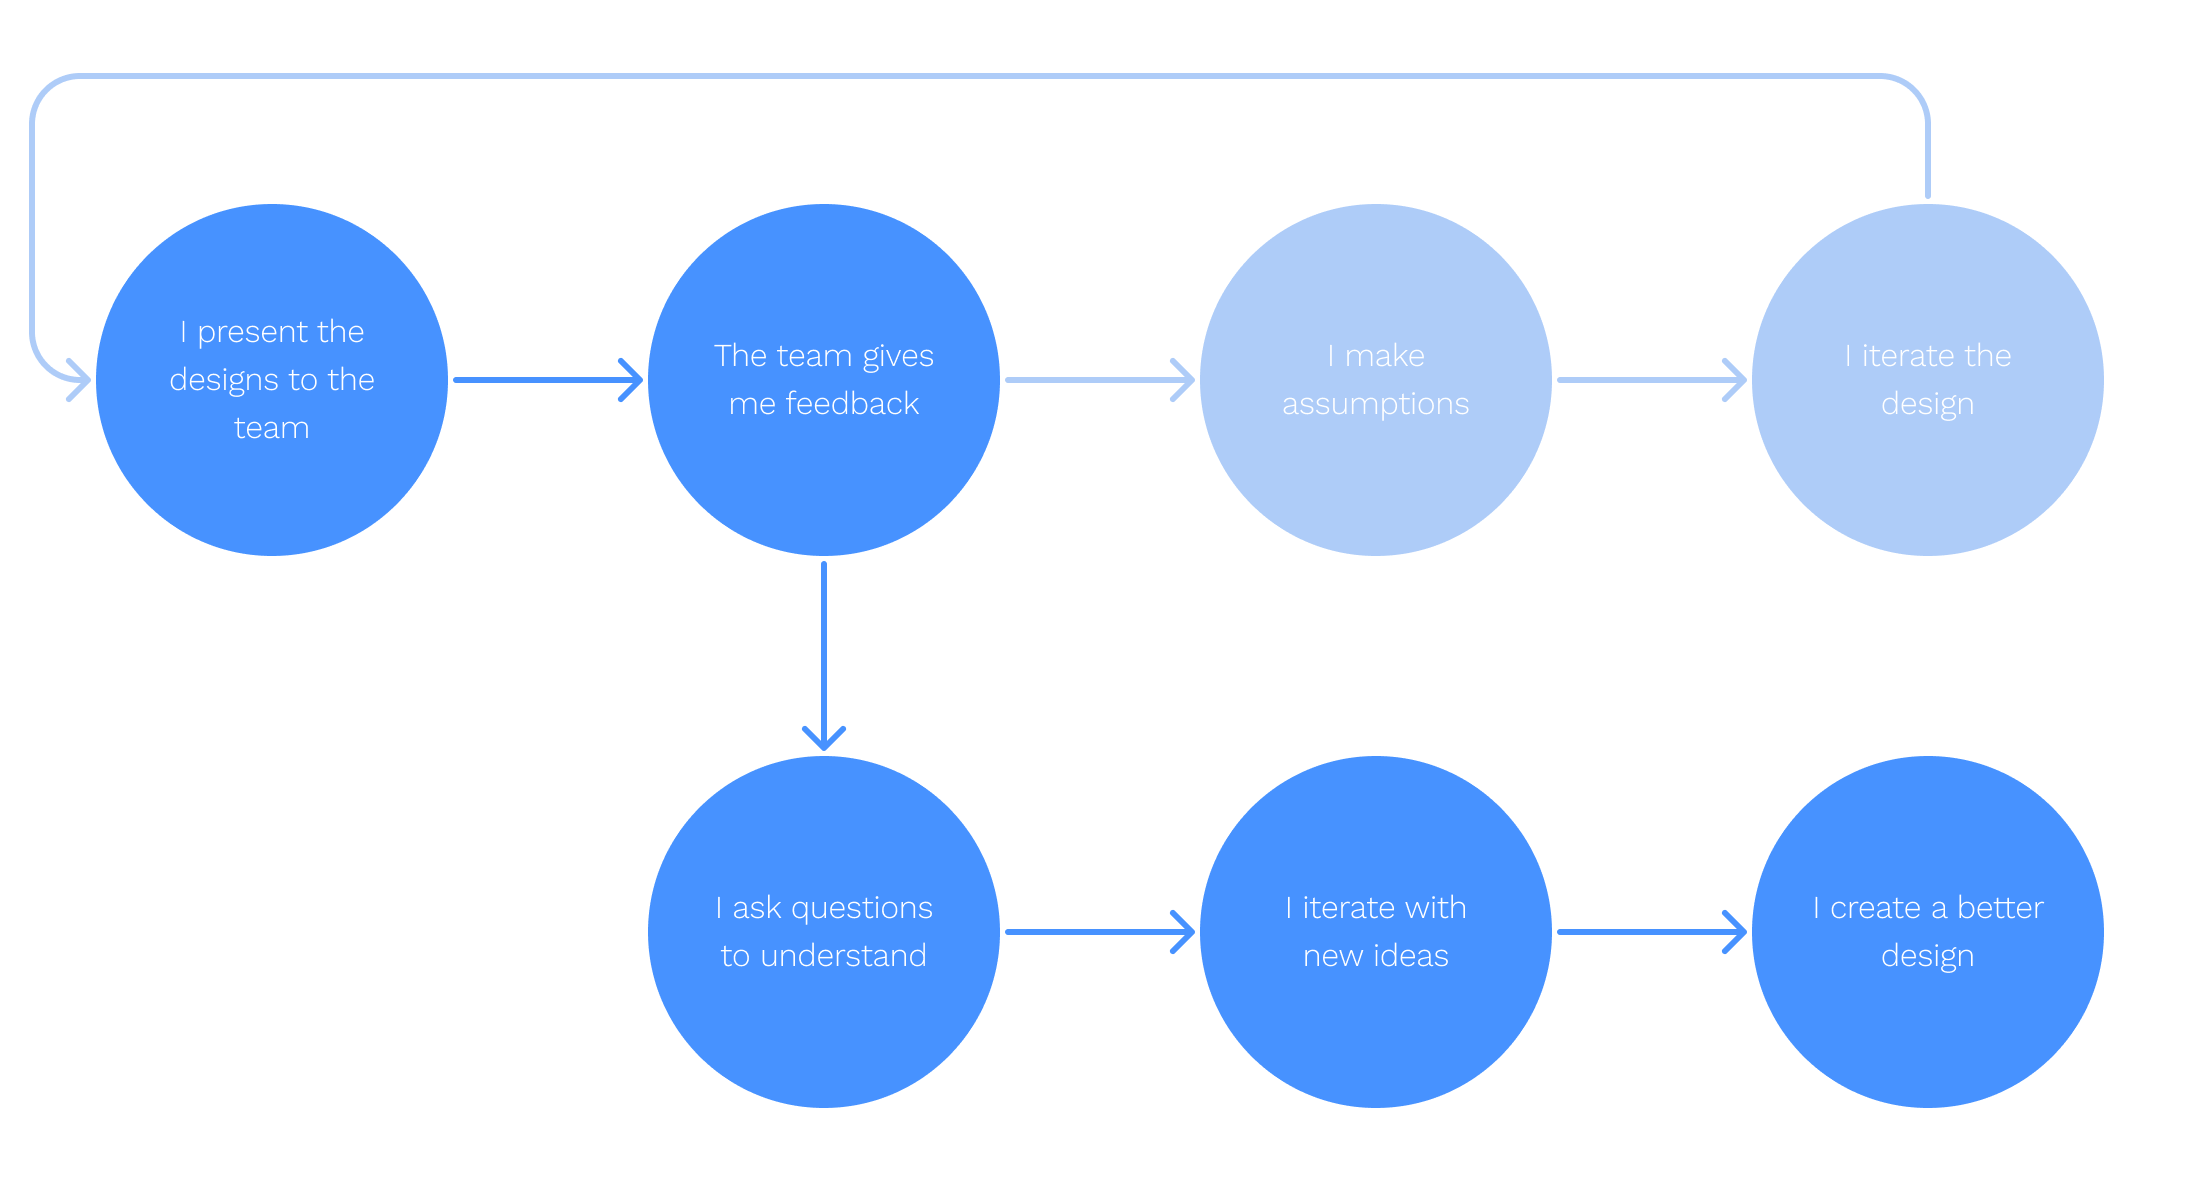
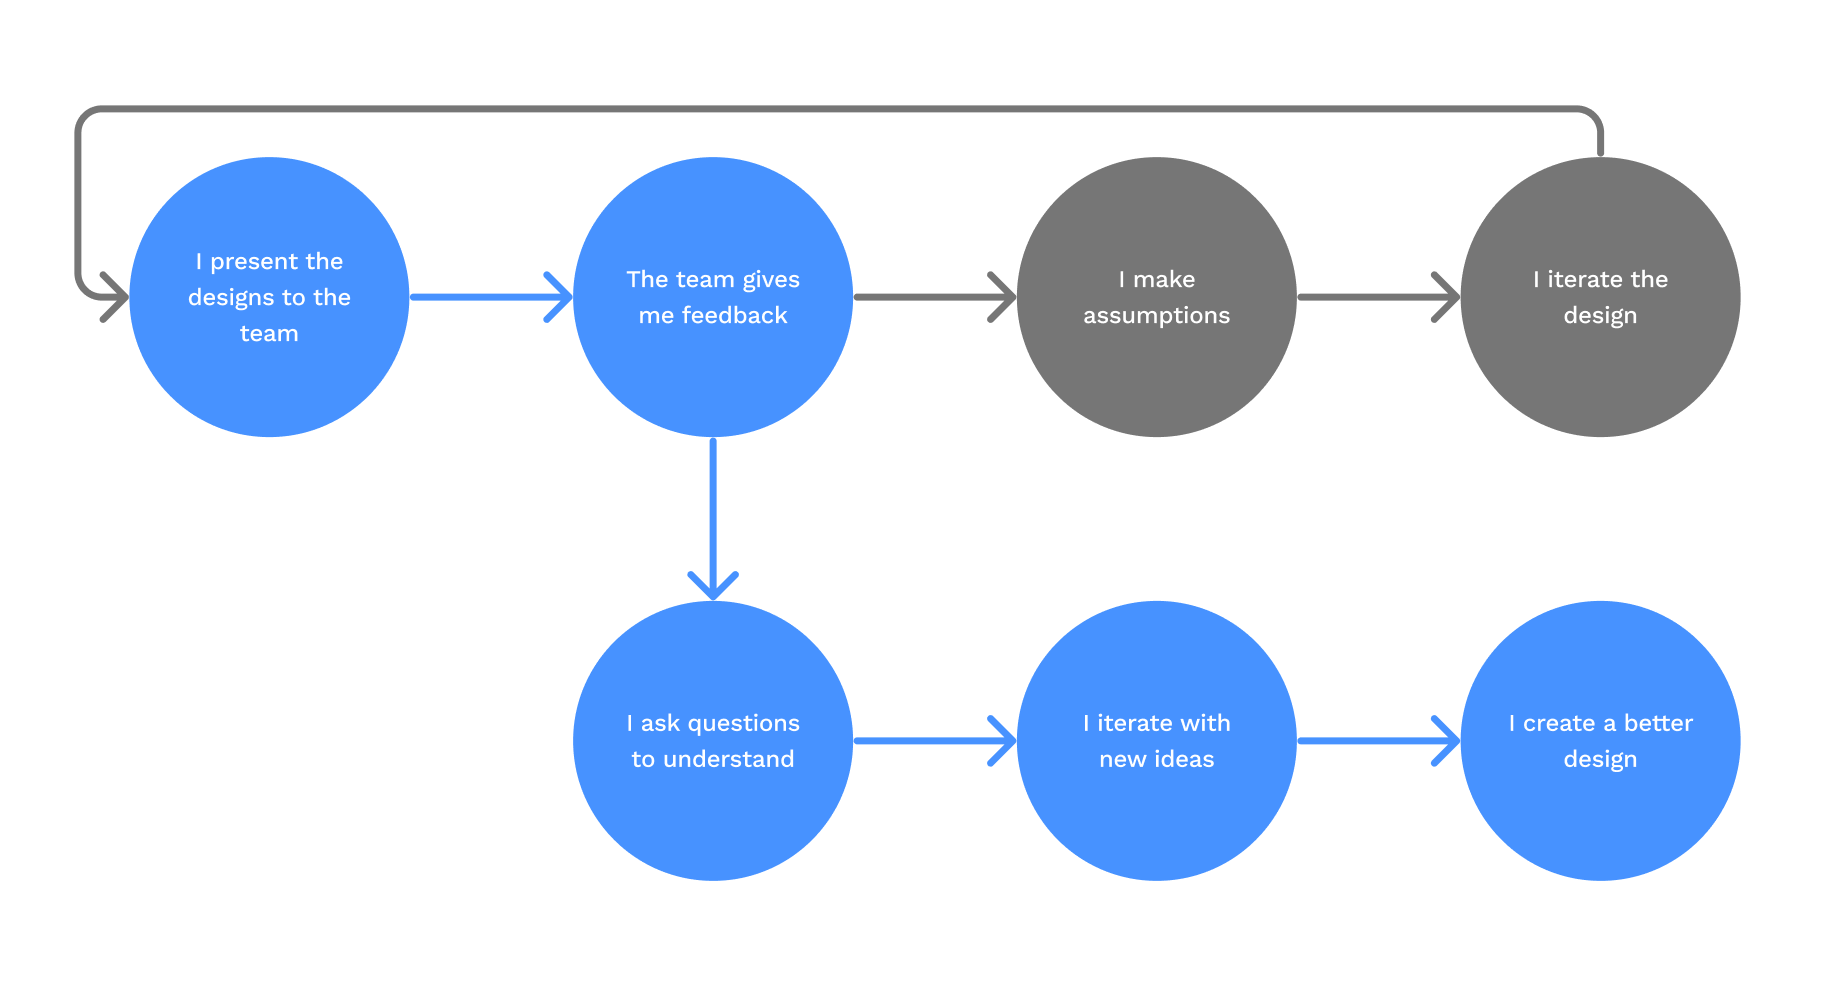
new images

diff --git a/westmonroe-energy.html b/westmonroe-energy.html
@@ -233,7 +233,8 @@
                 <p>
                     I designed 20+ Miro slides for the workshop. In addition to the user story mapping exercise, some boards facilitated icebreaker activities, while others collected participant thoughts. During the event, I synthesized findings, assisted participants with technical issues, and maintained detailed notes.
                 </p>
-                <img src="./img/westmonroeenergy/userstorymaps.png" class="portImg">
+                <img src="./img/westmonroeenergy/storyMapOne.png" class="portImg spaceBelow">
+                <img src="./img/westmonroeenergy/storyMapTwo.png" class="portImg">
             </div>
             <div class="sec" id="sprintoverview">
                 <h2>Sprint Overview</h2>
